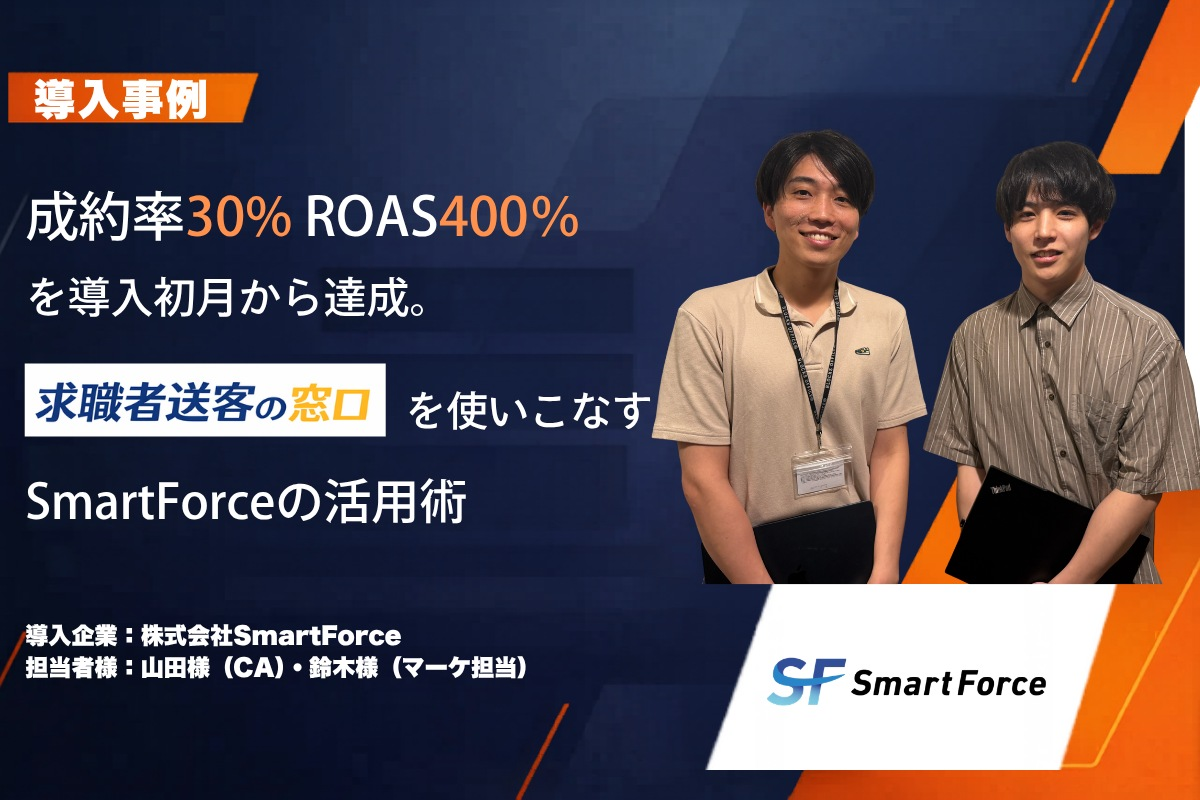
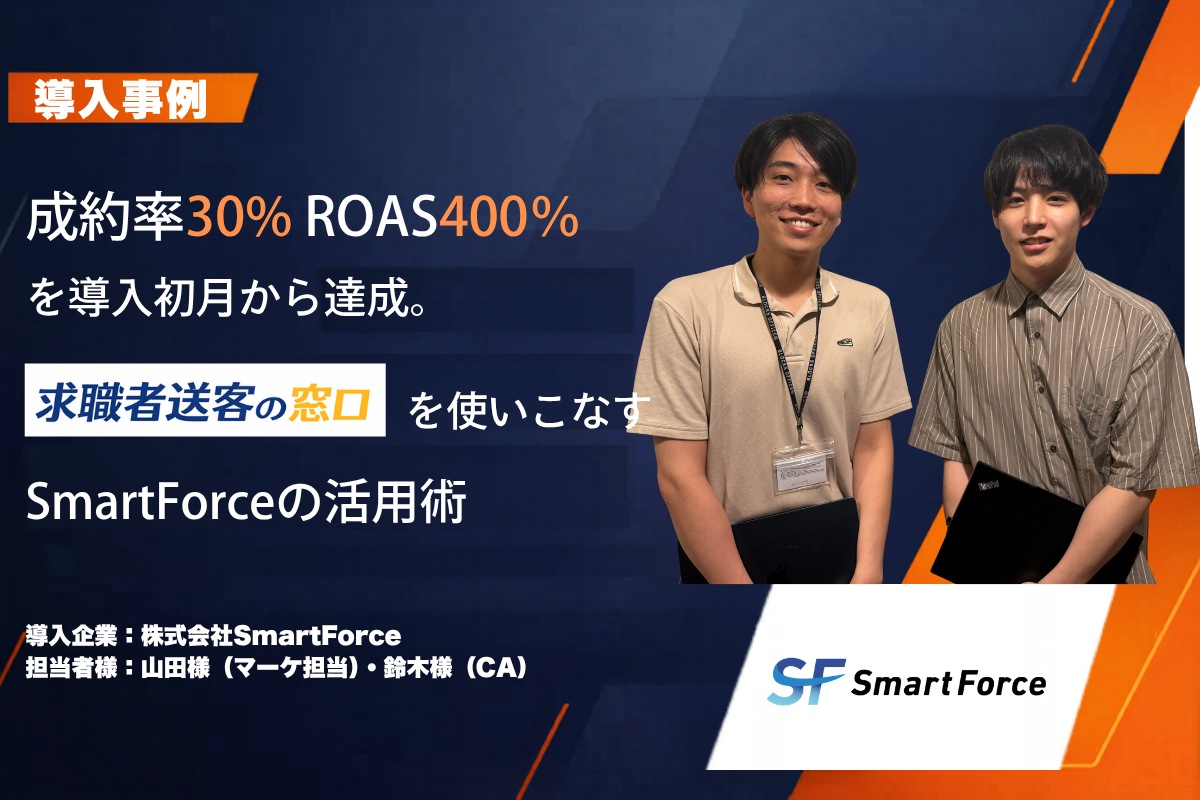
Update SmartForce hero image and fix role labels

Changed region(s): [[0.5242, 0.125, 1.0, 0.75], [0.185, 0.8125, 0.4317, 0.875]]

diff --git a/soukyaku-madoguchi/interview/smart-force.html b/soukyaku-madoguchi/interview/smart-force.html
@@ -164,7 +164,7 @@ height="0" width="0" style="display:none;visibility:hidden"></iframe></noscript>
       </div>
       <span class="iv-tag">導入事例 · CASE STUDY</span>
       <h1 class="iv-title"><span class="accent">成約率30%</span> <span class="accent">ROAS400%</span>を導入初月から達成。<br>求職者送客の窓口を使いこなす<span class="accent">SmartForceの活用術</span></h1>
-      <p class="iv-meta"><strong>導入企業：</strong>株式会社SmartForce　<strong>担当者様：</strong>山田 様（CA）・鈴木 様（マーケ担当）</p>
+      <p class="iv-meta"><strong>導入企業：</strong>株式会社SmartForce　<strong>担当者様：</strong>山田 様（マーケ担当）・鈴木 様（CA）</p>
       <div class="iv-hero-img">
         <img src="../images/interviews/smartforce-hero.jpg" alt="株式会社Smart Force 導入事例 成約率30%・ROAS 400%を達成 求職者送客の窓口で高い成約率を出すコツとは">
       </div>
